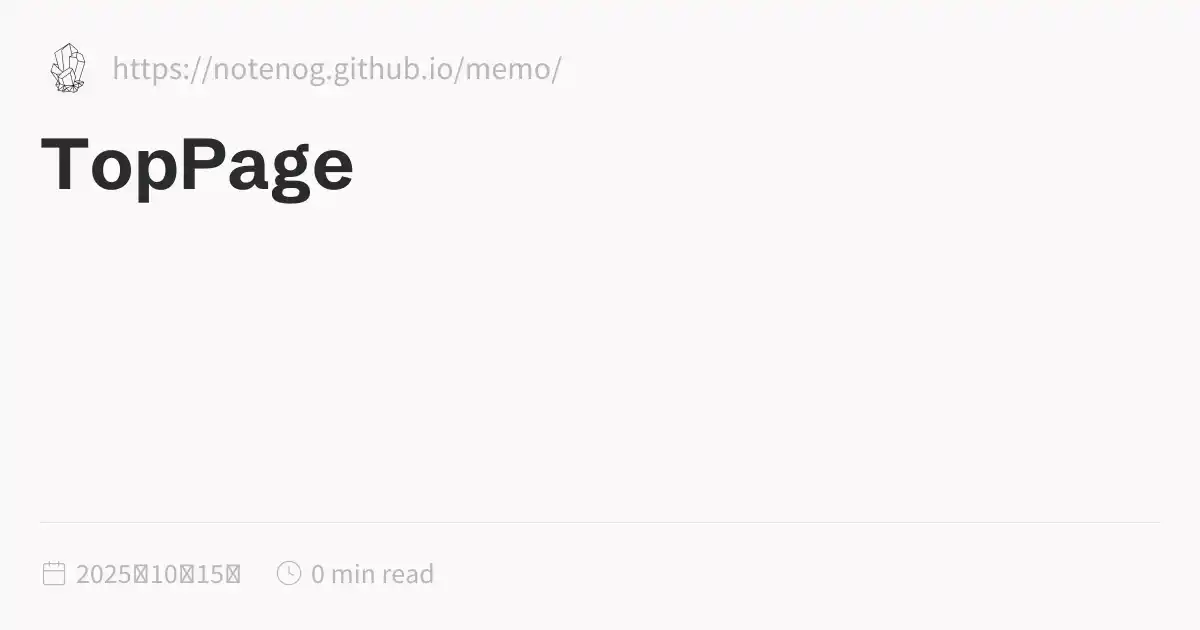
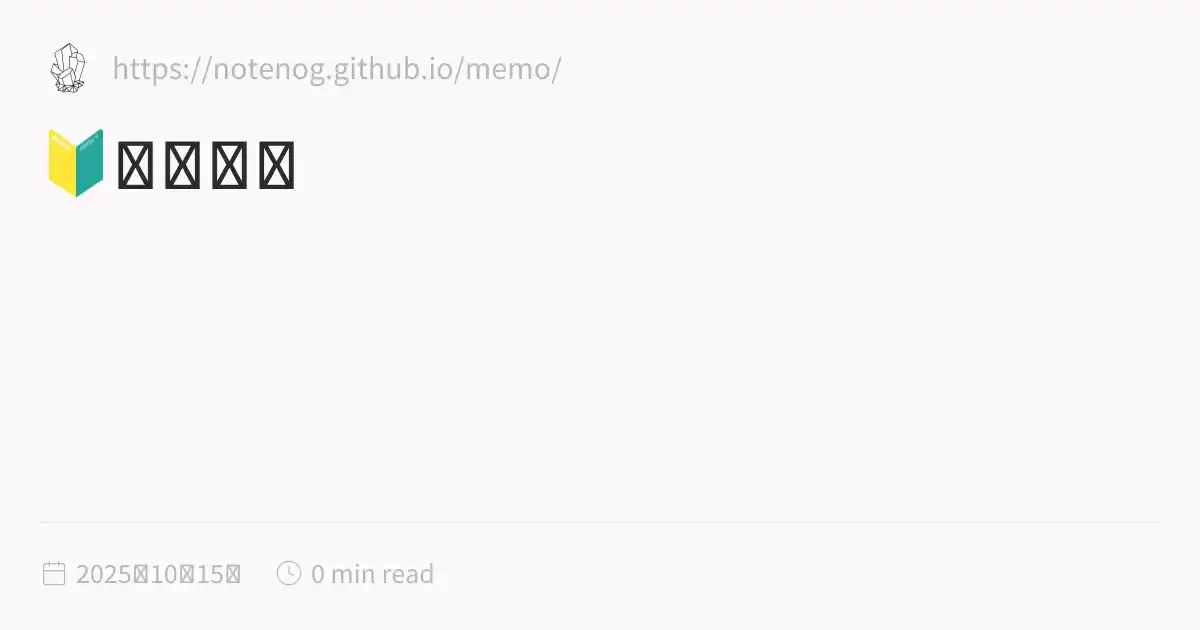
fix: Final push of clean assets with all content emitters disabled

Changed region(s): [[0.0308, 0.2111, 0.3083, 0.3317]]

diff --git a/docs/index.html b/docs/index.html
@@ -1,5 +1,5 @@
 <!DOCTYPE html>
-<html lang="ja" dir="ltr"><head><title>TopPage</title><meta charset="utf-8"/><link rel="preconnect" href="https://fonts.googleapis.com"/><link rel="preconnect" href="https://fonts.gstatic.com"/><link rel="stylesheet" href="https://fonts.googleapis.com/css2?family=Schibsted Grotesk:wght@400;700&amp;family=Source Sans Pro:ital,wght@0,400;0,600;1,400;1,600&amp;family=IBM Plex Mono:wght@400;600&amp;display=swap"/><link rel="preconnect" href="https://cdnjs.cloudflare.com" crossorigin="anonymous"/><meta name="viewport" content="width=device-width, initial-scale=1.0"/><meta name="og:site_name" content="MEMO"/><meta property="og:title" content="TopPage"/><meta property="og:type" content="website"/><meta name="twitter:card" content="summary_large_image"/><meta name="twitter:title" content="TopPage"/><meta name="twitter:description" content/><meta property="og:description" content/><meta property="og:image:alt" content/><meta property="twitter:domain" content="https://notenog.github.io/memo/"/><meta property="og:url" content="https://https//notenog.github.io/memo/index"/><meta property="twitter:url" content="https://https//notenog.github.io/memo/index"/><link rel="icon" href="./static/icon.png"/><meta name="description" content/><meta name="generator" content="Quartz"/><link href="./index.css" rel="stylesheet" type="text/css" spa-preserve/><style>.expand-button {
+<html lang="ja" dir="ltr"><head><title>🔰はじめに</title><meta charset="utf-8"/><link rel="preconnect" href="https://fonts.googleapis.com"/><link rel="preconnect" href="https://fonts.gstatic.com"/><link rel="stylesheet" href="https://fonts.googleapis.com/css2?family=Schibsted Grotesk:wght@400;700&amp;family=Source Sans Pro:ital,wght@0,400;0,600;1,400;1,600&amp;family=IBM Plex Mono:wght@400;600&amp;display=swap"/><link rel="preconnect" href="https://cdnjs.cloudflare.com" crossorigin="anonymous"/><meta name="viewport" content="width=device-width, initial-scale=1.0"/><meta name="og:site_name" content="MEMO"/><meta property="og:title" content="🔰はじめに"/><meta property="og:type" content="website"/><meta name="twitter:card" content="summary_large_image"/><meta name="twitter:title" content="🔰はじめに"/><meta name="twitter:description" content/><meta property="og:description" content/><meta property="og:image:alt" content/><meta property="twitter:domain" content="https://notenog.github.io/memo/"/><meta property="og:url" content="https://https//notenog.github.io/memo/index"/><meta property="twitter:url" content="https://https//notenog.github.io/memo/index"/><link rel="icon" href="./static/icon.png"/><meta name="description" content/><meta name="generator" content="Quartz"/><link href="./index.css" rel="stylesheet" type="text/css" spa-preserve/><style>.expand-button {
   position: absolute;
   display: flex;
   float: right;
@@ -116,6 +116,6 @@ pre:hover > .expand-button {
   padding: 0 12px;
   font-size: 14px;
 }
[2 lines of base64/hex data omitted]
 </script><script type="module">function f(i,e){if(!i)return;function r(o){o.target===this&&(o.preventDefault(),o.stopPropagation(),e())}function t(o){o.key.startsWith("Esc")&&(o.preventDefault(),e())}i?.addEventListener("click",r),window.addCleanup(()=>i?.removeEventListener("click",r)),document.addEventListener("keydown",t),window.addCleanup(()=>document.removeEventListener("keydown",t))}function y(i){for(;i.firstChild;)i.removeChild(i.firstChild)}var h=class{constructor(e,r){this.container=e;this.content=r;this.setupEventListeners(),this.setupNavigationControls(),this.resetTransform()}isDragging=!1;startPan={x:0,y:0};currentPan={x:0,y:0};scale=1;MIN_SCALE=.5;MAX_SCALE=3;cleanups=[];setupEventListeners(){let e=this.onMouseDown.bind(this),r=this.onMouseMove.bind(this),t=this.onMouseUp.bind(this),o=this.resetTransform.bind(this);this.container.addEventListener("mousedown",e),document.addEventListener("mousemove",r),document.addEventListener("mouseup",t),window.addEventListener("resize",o),this.cleanups.push(()=>this.container.removeEventListener("mousedown",e),()=>document.removeEventListener("mousemove",r),()=>document.removeEventListener("mouseup",t),()=>window.removeEventListener("resize",o))}cleanup(){for(let e of this.cleanups)e()}setupNavigationControls(){let e=document.createElement("div");e.className="mermaid-controls";let r=this.createButton("+",()=>this.zoom(.1)),t=this.createButton("-",()=>this.zoom(-.1)),o=this.createButton("Reset",()=>this.resetTransform());e.appendChild(t),e.appendChild(o),e.appendChild(r),this.container.appendChild(e)}createButton(e,r){let t=document.createElement("button");return t.textContent=e,t.className="mermaid-control-button",t.addEventListener("click",r),window.addCleanup(()=>t.removeEventListener("click",r)),t}onMouseDown(e){e.button===0&&(this.isDragging=!0,this.startPan={x:e.clientX-this.currentPan.x,y:e.clientY-this.currentPan.y},this.container.style.cursor="grabbing")}onMouseMove(e){this.isDragging&&(e.preventDefault(),this.currentPan={x:e.clientX-this.startPan.x,y:e.clientY-this.startPan.y},this.updateTransform())}onMouseUp(){this.isDragging=!1,this.container.style.cursor="grab"}zoom(e){let r=Math.min(Math.max(this.scale+e,this.MIN_SCALE),this.MAX_SCALE),t=this.content.getBoundingClientRect(),o=t.width/2,n=t.height/2,c=r-this.scale;this.currentPan.x-=o*c,this.currentPan.y-=n*c,this.scale=r,this.updateTransform()}updateTransform(){this.content.style.transform=`translate(${this.currentPan.x}px, ${this.currentPan.y}px) scale(${this.scale})`}resetTransform(){this.scale=1;let e=this.content.querySelector("svg");this.currentPan={x:e.getBoundingClientRect().width/2,y:e.getBoundingClientRect().height/2},this.updateTransform()}},C=["--secondary","--tertiary","--gray","--light","--lightgray","--highlight","--dark","--darkgray","--codeFont"],E;document.addEventListener("nav",async()=>{let e=document.querySelector(".center").querySelectorAll("code.mermaid");if(e.length===0)return;E||=await import("https://cdnjs.cloudflare.com/ajax/libs/mermaid/11.4.0/mermaid.esm.min.mjs");let r=E.default,t=new WeakMap;for(let n of e)t.set(n,n.innerText);async function o(){for(let s of e){s.removeAttribute("data-processed");let a=t.get(s);a&&(s.innerHTML=a)}let n=C.reduce((s,a)=>(s[a]=window.getComputedStyle(document.documentElement).getPropertyValue(a),s),{}),c=document.documentElement.getAttribute("saved-theme")==="dark";r.initialize({startOnLoad:!1,securityLevel:"loose",theme:c?"dark":"base",themeVariables:{fontFamily:n["--codeFont"],primaryColor:n["--light"],primaryTextColor:n["--darkgray"],primaryBorderColor:n["--tertiary"],lineColor:n["--darkgray"],secondaryColor:n["--secondary"],tertiaryColor:n["--tertiary"],clusterBkg:n["--light"],edgeLabelBackground:n["--highlight"]}}),await r.run({nodes:e})}await o(),document.addEventListener("themechange",o),window.addCleanup(()=>document.removeEventListener("themechange",o));for(let n=0;n<e.length;n++){let v=function(){let g=l.querySelector("#mermaid-space"),m=l.querySelector(".mermaid-content");if(!m)return;y(m);let w=c.querySelector("svg").cloneNode(!0);m.appendChild(w),l.classList.add("active"),g.style.cursor="grab",u=new h(g,m)},M=function(){l.classList.remove("active"),u?.cleanup(),u=null},c=e[n],s=c.parentElement,a=s.querySelector(".clipboard-button"),d=s.querySelector(".expand-button"),p=window.getComputedStyle(a),L=a.offsetWidth+parseFloat(p.marginLeft||"0")+parseFloat(p.marginRight||"0");d.style.right=`calc(${L}px + 0.3rem)`,s.prepend(d);let l=s.querySelector("#mermaid-container");if(!l)return;let u=null;d.addEventListener("click",v),f(l,M),window.addCleanup(()=>{u?.cleanup(),d.removeEventListener("click",v)})}});
 </script><script src="https://cdn.jsdelivr.net/npm/katex@0.16.11/dist/contrib/copy-tex.min.js" type="application/javascript"></script><script src="./postscript.js" type="module"></script></html>

diff --git a/content/index.md b/content/index.md
@@ -1,4 +1,4 @@
 ---
-title: TopPage
+title: "🔰はじめに"
 draft: false
 ---
